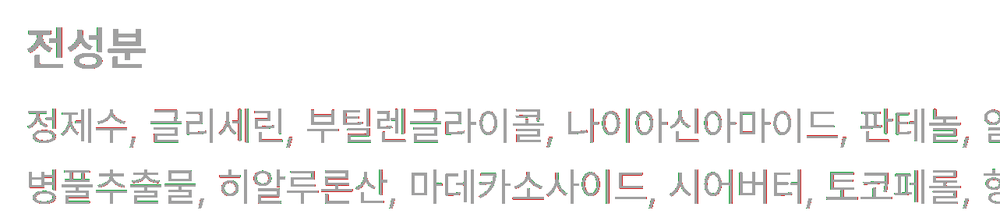
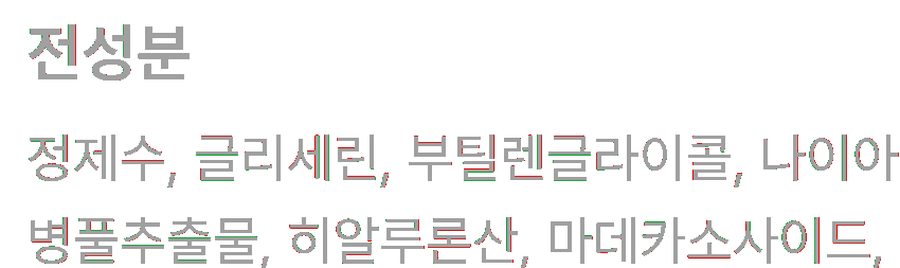
레이아웃 언어를 바꿈 — 반복되는 테두리 상자를 걷어냄
스스로 검증한 결과 (사장님 지적이 맞았다):
- 열두 개 섹션이 예외 없이 «라벨 → 제목 → 문단 → 1px 테두리 둥근 상자» 였다.
  같은 상자가 반복되니 리듬이 없고 문서 사이트처럼 읽힌다.
- 눈으로 보여 주는 게 핵심인 제품인데 그림을 죄다 작은 칸에 넣어 아무것도 안 읽혔다.
- 표 왼쪽의 거대한 여백은 의도가 아니라 남은 자리였다.

바꾼 것
- 받으실 것: 썸네일 다섯 줄짜리 표를 버리고 «납품 내역서» 형태로. 큰 글자 + 실제
  파일명(모노). 작은 그림을 늘어놓는 것보다 글자로 크게 보여 주는 쪽이 읽힌다.
- 검증: 좁은 2단을 버리고 겹쳐보기 이미지를 전면으로. 확대 컷도 줄에 맞춰 다시 자름.
- 문제 3가지 / 못 하는 것 4가지: 카드 상자를 없애고 굵은 윗선 + 큰 제목으로.
- 갤러리 뷰어를 넓힘.

시도했다 버린 것: 납품물을 한 장에 펼쳐 놓는 합성 이미지 — 라벨이 카드를 덮고
두 카드가 똑같아 보여 실패. 만든 그림이 스스로를 설명하지 못하면 넣지 않는다.

Changed region(s): [[0.0311, 0.7602, 1.0, 1.0], [0.0311, 0.4887, 1.0, 0.7059], [0.0311, 0.0814, 0.2178, 0.3258]]

diff --git a/index.html b/index.html
@@ -93,25 +93,22 @@
       문제는 그 순간 글자가 <b style="color:var(--text)">도형 덩어리</b>가 되어
       되돌릴 수 없다는 것입니다.</p>
   </div>
-  <div class="grid g3 rv" style="margin-top:44px">
-    <article class="card prob">
-      <div class="ic"><svg viewBox="0 0 20 20" fill="currentColor"><path d="M3 4h14v2H3V4Zm0 5h9v2H3V9Zm0 5h9v2H3v-2Z"/><path d="M15.2 8.2 17 10l-1.2 1.2-1.8-1.8-1.8 1.8L11 10l1.8-1.8L11 6.4l1.2-1.2 1.8 1.8 1.8-1.8L17 6.4l-1.8 1.8Z"/></svg></div>
-      <div><h3>오타 하나에 견적이 붙습니다</h3>
-        <p class="small muted">전화번호 한 자리, 전성분 한 단어를 고치려고 원본 작업 파일을
-          다시 찾거나 처음부터 조판을 다시 짜야 합니다.</p></div>
-    </article>
-    <article class="card prob">
-      <div class="ic"><svg viewBox="0 0 20 20" fill="currentColor"><path d="M10 2a5 5 0 0 0-5 5v1H4a1 1 0 0 0-1 1v8a1 1 0 0 0 1 1h12a1 1 0 0 0 1-1V9a1 1 0 0 0-1-1h-1V7a5 5 0 0 0-5-5Zm3 6H7V7a3 3 0 1 1 6 0v1Z"/></svg></div>
-      <div><h3>원본 파일이 없습니다</h3>
-        <p class="small muted">퇴사한 디자이너, 계약이 끝난 외주사, 사라진 하드디스크.
-          손에 남은 건 인쇄용 최종 파일 한 개뿐입니다.</p></div>
-    </article>
-    <article class="card prob">
-      <div class="ic"><svg viewBox="0 0 20 20" fill="currentColor"><path d="M10 1.8 1.5 17h17L10 1.8Zm.9 11.4H9.1V8h1.8v5.2Zm0 3H9.1v-1.8h1.8V16Z"/></svg></div>
-      <div><h3>다시 짜면 «비슷한» 파일이 됩니다</h3>
-        <p class="small muted">눈대중으로 다시 조판하면 자간·행간이 미묘하게 어긋납니다.
-          재인쇄본과 기존 인쇄본이 달라 보이는 사고가 여기서 납니다.</p></div>
-    </article>
+  <div class="plain3 rv">
+    <div>
+      <h3>오타 하나에 견적이 붙습니다</h3>
+      <p>전화번호 한 자리, 전성분 한 단어를 고치려고 원본 작업 파일을 다시 찾거나
+        처음부터 조판을 다시 짜야 합니다.</p>
+    </div>
+    <div>
+      <h3>원본 파일이 없습니다</h3>
+      <p>퇴사한 디자이너, 계약이 끝난 외주사, 사라진 하드디스크.
+        손에 남은 건 인쇄용 최종 파일 한 개뿐입니다.</p>
+    </div>
+    <div>
+      <h3>다시 짜면 «비슷한» 파일이 됩니다</h3>
+      <p>눈대중으로 다시 조판하면 자간·행간이 미묘하게 어긋납니다.
+        재인쇄본과 기존 인쇄본이 달라 보이는 사고가 여기서 납니다.</p>
+    </div>
   </div>
 </div></section>
 
@@ -304,60 +301,52 @@
       함께 드립니다. 압축 파일 하나에 아래가 전부 들어 있습니다.</p>
   </div>
 
-  <div class="getlist rv">
-    <div class="getrow">
+  <div class="slip rv">
+    <div class="slip-row">
       <span class="no">01</span>
-      <div class="body">
-        <h3>복원된 인쇄 파일</h3>
+      <div><h3>복원된 인쇄 파일</h3>
         <p>일러스트레이터에서 열어 글자를 더블클릭하면 바로 수정됩니다.
-          복원한 텍스트는 <b>별도 레이어</b>에 들어가 원본 요소와 구분됩니다.</p>
-      </div>
-      <figure><img src="assets/after.png" alt="복원된 파일" loading="lazy"></figure>
+          복원한 텍스트는 <b style="color:var(--text)">별도 레이어</b>에 들어가
+          원본 요소와 구분됩니다.</p></div>
+      <div class="files"><b>복원본.pdf</b><br>00_원본_&lt;파일명&gt;.pdf</div>
     </div>
-    <div class="getrow">
+    <div class="slip-row">
       <span class="no">02</span>
-      <div class="body">
-        <h3>검증 리포트 (PDF · 텍스트)</h3>
+      <div><h3>검증 리포트</h3>
         <p>줄별 복원 여부, 사용된 서체·크기·자간, 위치 오차 수치,
-          그리고 <b>복원하지 않은 줄과 그 이유</b>가 적혀 있습니다.</p>
-      </div>
-      <figure><img src="assets/report_thumb.png" alt="검증 리포트" loading="lazy"></figure>
+          그리고 <b style="color:var(--text)">복원하지 않은 줄과 그 이유</b>가 적혀 있습니다.
+          믿어달라고 하는 대신 확인하실 수 있게 하는 문서입니다.</p></div>
+      <div class="files"><b>검증리포트.pdf</b><br>검증리포트.md</div>
     </div>
-    <div class="getrow">
+    <div class="slip-row">
       <span class="no">03</span>
-      <div class="body">
-        <h3>겹쳐보기 검사 이미지</h3>
+      <div><h3>겹쳐보기 검사 이미지</h3>
         <p>원본 위에 복원본을 포개어 렌더링한 이미지입니다.
-          디자인이 바뀌지 않았다는 것을 <b>눈으로</b> 확인하실 수 있습니다.</p>
-      </div>
-      <figure><img src="assets/overlay.png" alt="겹쳐보기 검사 이미지" loading="lazy"></figure>
+          디자인이 바뀌지 않았다는 것을 <b style="color:var(--text)">눈으로</b> 확인하실 수 있습니다.
+          줄 단위 확대본도 함께 들어갑니다.</p></div>
+      <div class="files"><b>overlay.png</b><br>overlay_lines/</div>
     </div>
-    <div class="getrow">
+    <div class="slip-row">
       <span class="no">04</span>
-      <div class="body">
-        <h3>줄별 판정 목록</h3>
+      <div><h3>줄별 판정 목록</h3>
         <p>«이건 글자가 아니라 로고인데»를 잡으실 수 있게, 텍스트로 판정한 도형을
-          줄 단위 이미지로 전부 보여 드립니다.</p>
-      </div>
-      <figure><img src="assets/lines.png" alt="줄별 판정" loading="lazy"></figure>
+          줄 단위 이미지로 전부 보여 드립니다. 아니라고 알려 주시면 그 줄은 원본으로 되돌립니다.</p></div>
+      <div class="files"><b>텍스트판정목록.md</b><br>텍스트판정/</div>
     </div>
-    <div class="getrow">
+    <div class="slip-row">
       <span class="no">05</span>
-      <div class="body">
-        <h3>폰트 매니페스트</h3>
-        <p>어떤 서체를 썼고 <b>임베딩이 허용되는지</b> 적어 드립니다.
-          상용 폰트 파일은 결과물에 넣지 않습니다 — 이름과 구매 경로만 알려 드립니다.</p>
-      </div>
-      <figure><div class="filelist">
-        <b>복원본.pdf</b><br>
-        <b>검증리포트.pdf</b> · 검증리포트.md<br>
-        overlay.png · overlay_lines/<br>
-        텍스트판정/ · 텍스트판정목록.md<br>
-        <b>폰트매니페스트.txt</b><br>
-        00_원본_&lt;파일명&gt;.pdf
-      </div></figure>
+      <div><h3>폰트 매니페스트</h3>
+        <p>어떤 서체를 썼고 <b style="color:var(--text)">임베딩이 허용되는지</b> 적어 드립니다.
+          상용 폰트 파일은 결과물에 넣지 않습니다 — 이름과 구매 경로만 알려 드립니다.</p></div>
+      <div class="files"><b>폰트매니페스트.txt</b></div>
     </div>
+    <p class="slip-foot">
+      <span>압축 파일 <b>하나</b>로 받으십니다</span>
+      <span>보관 <b>72시간</b> · 즉시 삭제 가능</span>
+      <span>지금은 <b>무료 베타</b></span>
+    </p>
   </div>
+
   <p class="tiny muted rv" style="margin-top:18px">
     받으신 원본도 그대로 함께 넣어 드립니다. 비교하실 때 쓰시면 됩니다.</p>
 </div></section>
@@ -370,39 +359,28 @@
     <p class="lede">복원본을 원본 위에 정확히 포개어 렌더링한 뒤 픽셀이 어긋나는 곳을 찾습니다.
       아래는 실제 검사 이미지입니다.</p>
   </div>
-  <div class="proof-grid">
-    <div class="rv">
-      <figure class="frame" style="margin:0">
-        <img src="assets/overlay.png" alt="원본과 복원본을 겹친 검증 이미지" loading="lazy">
-      </figure>
-      <figure class="zoomcut">
-        <img src="assets/overlay_zoom.png" alt="겹쳐보기 이미지의 전성분 부분 확대" loading="lazy">
-        <figcaption>↑ 위 이미지의 「전성분」 부분을 확대한 것입니다.
-          어긋남이 <b>글자 가장자리에만</b> 남아 있습니다.</figcaption>
-      </figure>
-    </div>
-    <div class="rv">
-      <ul class="legend">
-        <li><span class="sw" style="background:#9AA09D"></span>
-          <div><b>회색 — 완전히 겹침</b><span>원본 도형과 복원된 글자가 같은 자리에 있습니다.</span></div></li>
-        <li><span class="sw" style="background:#E0736B"></span>
-          <div><b>붉은 테두리 — 원본에만 있는 픽셀</b><span>글자 외곽선 굵기 정도의 미세한 어긋남입니다.</span></div></li>
-        <li><span class="sw" style="background:#79C79E"></span>
-          <div><b>초록 테두리 — 복원본에만 있는 픽셀</b><span>같은 자리에서 반대 방향의 미세 차이입니다.</span></div></li>
-      </ul>
-      <div class="metrics">
-        <div><b>0.00pt</b><span>가로 위치 오차 최대</span></div>
-        <div><b>0.00pt</b><span>세로 위치 오차 최대</span></div>
-        <div><b>0.960</b><span>겹침 정확도 (1.000 = 완전 일치)</span></div>
-        <div><b>14 / 17</b><span>복원한 줄 / 검출한 줄</span></div>
-      </div>
-      <p class="tiny" style="color:var(--muted-d);margin-top:16px">
-        이 페이지의 모든 이미지와 수치는 저희가 만든 가상 샘플 라벨을 실제 복원 시스템에
-        통과시켜 나온 결과입니다. 연출하거나 손보지 않았고, 고객 파일도 아닙니다.
-        복원하지 않은 3줄은 삭제되지 않고 원본 도형 그대로 남아 있습니다.
-      </p>
-    </div>
+  <figure class="bleed rv" style="margin:0">
+    <img src="assets/overlay.png" alt="원본과 복원본을 겹친 검증 이미지" loading="lazy">
+    <figcaption><b>회색</b>은 완전히 겹친 곳, <b>붉고 푸른 테두리</b>는 어긋난 픽셀입니다.
+      어긋남이 글자 가장자리에만 남아 있으면 정상입니다.</figcaption>
+  </figure>
+
+  <figure class="bleed rv" style="margin-top:20px">
+    <img src="assets/overlay_zoom.png" alt="겹쳐보기 확대" loading="lazy">
+    <figcaption>위 이미지의 「전성분」 부분을 확대한 것입니다.</figcaption>
+  </figure>
+
+  <div class="metrics rv" style="grid-template-columns:repeat(2,1fr);margin-top:36px">
+    <div><b>0.00pt</b><span>가로 위치 오차 최대</span></div>
+    <div><b>0.00pt</b><span>세로 위치 오차 최대</span></div>
+    <div><b>0.960</b><span>겹침 정확도 (1.000 = 완전 일치)</span></div>
+    <div><b>14 / 17</b><span>복원한 줄 / 검출한 줄</span></div>
   </div>
+  <p class="tiny rv" style="color:var(--muted-d);margin-top:20px;max-width:76ch">
+    이 페이지의 모든 이미지와 수치는 저희가 만든 가상 샘플을 실제 복원 시스템에
+    통과시켜 나온 결과입니다. 연출하거나 손보지 않았고, 고객 파일도 아닙니다.
+    복원하지 않은 3줄은 삭제되지 않고 원본 도형 그대로 남아 있습니다.
+  </p>
 </div></section>
 
 <!-- ══════════ 못 하는 것 ══════════ -->
@@ -412,31 +390,20 @@
     <h2 class="h" style="margin-top:18px">이건 못 합니다.</h2>
     <p class="lede">파는 쪽이 먼저 말씀드리는 게 맞다고 생각합니다.</p>
   </div>
-  <div class="grid g2 rv" style="margin-top:36px">
-    <article class="card prob">
-      <div class="ic" style="background:#F6EFE3;color:#8A6A16"><svg viewBox="0 0 20 20" fill="currentColor"><path d="M14.5 6.9 13.1 5.5 10 8.6 6.9 5.5 5.5 6.9 8.6 10l-3.1 3.1 1.4 1.4L10 11.4l3.1 3.1 1.4-1.4L11.4 10l3.1-3.1Z"/></svg></div>
-      <div><h3>100% 복원은 약속하지 않습니다</h3>
-        <p class="small muted">서체를 확정하지 못한 줄은 일부러 손대지 않습니다.
-          몇 줄이 되살아나는지는 <b>돌려본 뒤 숫자로</b> 알려 드립니다.</p></div>
-    </article>
-    <article class="card prob">
-      <div class="ic" style="background:#F6EFE3;color:#8A6A16"><svg viewBox="0 0 20 20" fill="currentColor"><path d="M14.5 6.9 13.1 5.5 10 8.6 6.9 5.5 5.5 6.9 8.6 10l-3.1 3.1 1.4 1.4L10 11.4l3.1 3.1 1.4-1.4L11.4 10l3.1-3.1Z"/></svg></div>
-      <div><h3>스캔 이미지·JPG는 안 됩니다</h3>
-        <p class="small muted">글자 도형 정보가 아예 없기 때문입니다.
-          <b>.ai 또는 .pdf</b>여야 하고, «PDF 호환 파일 만들기»가 켜져 있어야 합니다.</p></div>
-    </article>
-    <article class="card prob">
-      <div class="ic" style="background:#F6EFE3;color:#8A6A16"><svg viewBox="0 0 20 20" fill="currentColor"><path d="M14.5 6.9 13.1 5.5 10 8.6 6.9 5.5 5.5 6.9 8.6 10l-3.1 3.1 1.4 1.4L10 11.4l3.1 3.1 1.4-1.4L11.4 10l3.1-3.1Z"/></svg></div>
-      <div><h3>상용 폰트 파일은 못 드립니다</h3>
-        <p class="small muted">폰트 파일은 법으로 프로그램처럼 보호됩니다.
-          배포가 허용된 서체로 대체 임베딩하거나, 보유하신 정품으로 열리게 만듭니다.</p></div>
-    </article>
-    <article class="card prob">
-      <div class="ic" style="background:#F6EFE3;color:#8A6A16"><svg viewBox="0 0 20 20" fill="currentColor"><path d="M14.5 6.9 13.1 5.5 10 8.6 6.9 5.5 5.5 6.9 8.6 10l-3.1 3.1 1.4 1.4L10 11.4l3.1 3.1 1.4-1.4L11.4 10l3.1-3.1Z"/></svg></div>
-      <div><h3>기계 검사만으로 출고하지 않습니다</h3>
-        <p class="small muted">인쇄에 넘기시기 전에 <b>일러스트레이터로 한 번 열어</b>
-          확인해 주세요. 저희 경험상 그 확인에서만 잡히는 문제가 있었습니다.</p></div>
-    </article>
+  <div class="plain3 rv" style="grid-template-columns:repeat(2,1fr)">
+    <div><h3>100% 복원은 약속하지 않습니다</h3>
+      <p>서체를 확정하지 못한 줄은 일부러 손대지 않습니다.
+        몇 줄이 되살아나는지는 <b style="color:var(--text)">돌려본 뒤 숫자로</b> 알려 드립니다.</p></div>
+    <div><h3>스캔 이미지·JPG는 안 됩니다</h3>
+      <p>글자 도형 정보가 아예 없기 때문입니다.
+        <b style="color:var(--text)">.ai 또는 .pdf</b>여야 하고,
+        «PDF 호환 파일 만들기»가 켜져 있어야 합니다.</p></div>
+    <div><h3>상용 폰트 파일은 못 드립니다</h3>
+      <p>폰트 파일은 법으로 프로그램처럼 보호됩니다.
+        배포가 허용된 서체로 대체 임베딩하거나, 보유하신 정품으로 열리게 만듭니다.</p></div>
+    <div><h3>기계 검사만으로 출고하지 않습니다</h3>
+      <p>인쇄에 넘기시기 전에 <b style="color:var(--text)">일러스트레이터로 한 번 열어</b>
+        확인해 주세요. 저희 경험상 그 확인에서만 잡히는 문제가 있었습니다.</p></div>
   </div>
 </div></section>
 

diff --git a/style.css b/style.css
@@ -583,3 +583,50 @@ footer .legal{margin-top:34px;padding-top:22px;border-top:1px solid var(--line-d
 .getrow .filelist{font-size:12.6px;color:var(--muted);line-height:1.9;
   font-family:ui-monospace,SFMono-Regular,Menlo,monospace}
 .getrow .filelist b{color:var(--text)}
+
+/* ═══════════════════════════════════════════════════════════════════
+   레이아웃 언어 정리 (2026-08-30)
+
+   문제였던 것: 열두 개 섹션이 예외 없이 «라벨 → 제목 → 문단 → 테두리 상자» 였다.
+   같은 상자가 반복되니 리듬이 없고, 그 안에 그림을 욱여넣으니 전부 작아서 안 읽혔다.
+
+   바꾼 것: 상자를 줄이고 (1) 큰 그림, (2) 큰 글자, (3) 여백 으로 구분한다.
+   ═══════════════════════════════════════════════════════════════════ */
+
+/* ── 납품 내역서 — 인쇄물다운 목록 (썸네일 없이 글자로) ─────────── */
+.slip{margin-top:48px;border-top:2px solid var(--ink);padding-top:6px}
+.slip-row{display:grid;gap:4px 26px;padding:26px 0;border-bottom:1px solid var(--line);
+  align-items:baseline}
+@media(min-width:820px){.slip-row{grid-template-columns:56px minmax(0,1fr) minmax(0,300px)}}
+.slip-row .no{font-size:14px;font-weight:700;color:var(--accent);
+  font-variant-numeric:tabular-nums;letter-spacing:.04em}
+.slip-row h3{font-size:clamp(21px,2.2vw,27px);letter-spacing:-.035em}
+.slip-row p{font-size:15.5px;color:var(--muted);line-height:1.7;margin-top:8px;max-width:52ch}
+.slip-row .files{font-family:ui-monospace,SFMono-Regular,Menlo,monospace;
+  font-size:13.2px;line-height:2;color:var(--muted)}
+.slip-row .files b{color:var(--text);font-weight:600}
+@media(max-width:819px){.slip-row .files{margin-top:14px}}
+.slip-foot{display:flex;flex-wrap:wrap;gap:10px 28px;padding:24px 0 0;
+  font-size:14.5px;color:var(--muted)}
+.slip-foot b{color:var(--text)}
+
+/* ── 전면 그림 — 좌우로 꽉 차게 ────────────────────────────────── */
+.bleed{margin-top:52px;border-radius:var(--r-lg);overflow:hidden;background:#fff;
+  box-shadow:var(--shadow-lg)}
+.bleed img{width:100%;display:block}
+.bleed figcaption{padding:16px 22px;font-size:14px;color:var(--muted);
+  background:var(--paper-2);border-top:1px solid var(--line)}
+.on-dark .bleed{box-shadow:none;border:1px solid var(--line-d)}
+.on-dark .bleed figcaption{background:var(--ink-2);border-top-color:var(--line-d);
+  color:var(--muted-d)}
+.on-dark .bleed figcaption b{color:#fff}
+
+/* ── 문제 3가지 — 상자 없이 큰 글자로 ─────────────────────────── */
+.plain3{display:grid;gap:clamp(30px,4vw,54px);margin-top:52px}
+@media(min-width:860px){.plain3{grid-template-columns:repeat(3,1fr)}}
+.plain3 > div{padding-top:22px;border-top:2px solid var(--ink)}
+.plain3 h3{font-size:clamp(19px,2vw,23px);letter-spacing:-.032em;margin-bottom:10px}
+.plain3 p{font-size:15.5px;color:var(--muted);line-height:1.72}
+
+/* ── 갤러리를 넓게 ─────────────────────────────────────────────── */
+@media(min-width:1100px){.gal-stage{grid-template-columns:minmax(0,1.9fr) minmax(0,.68fr)}}
